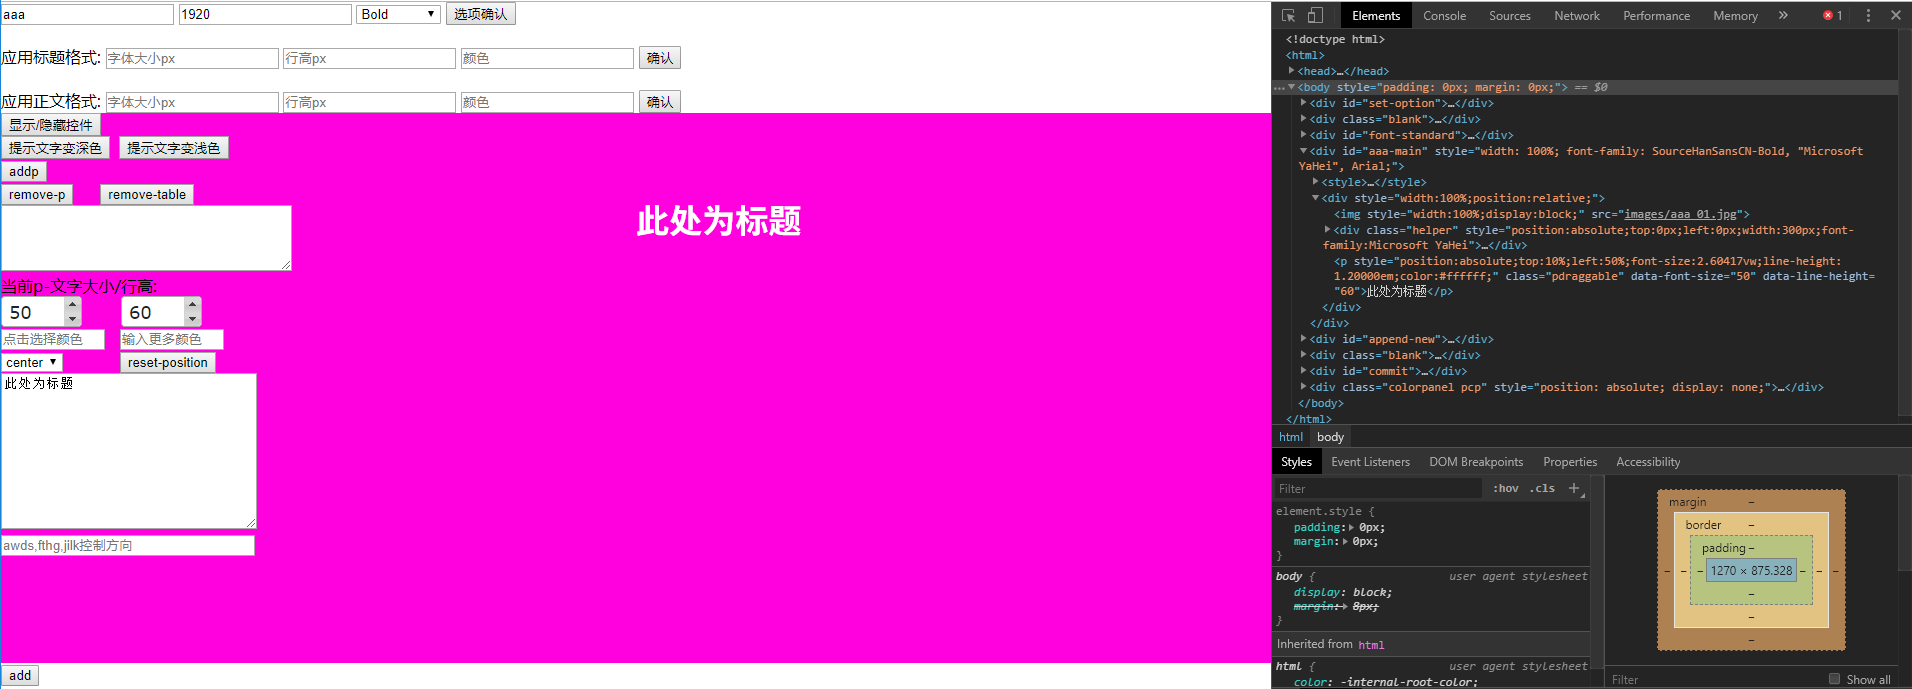
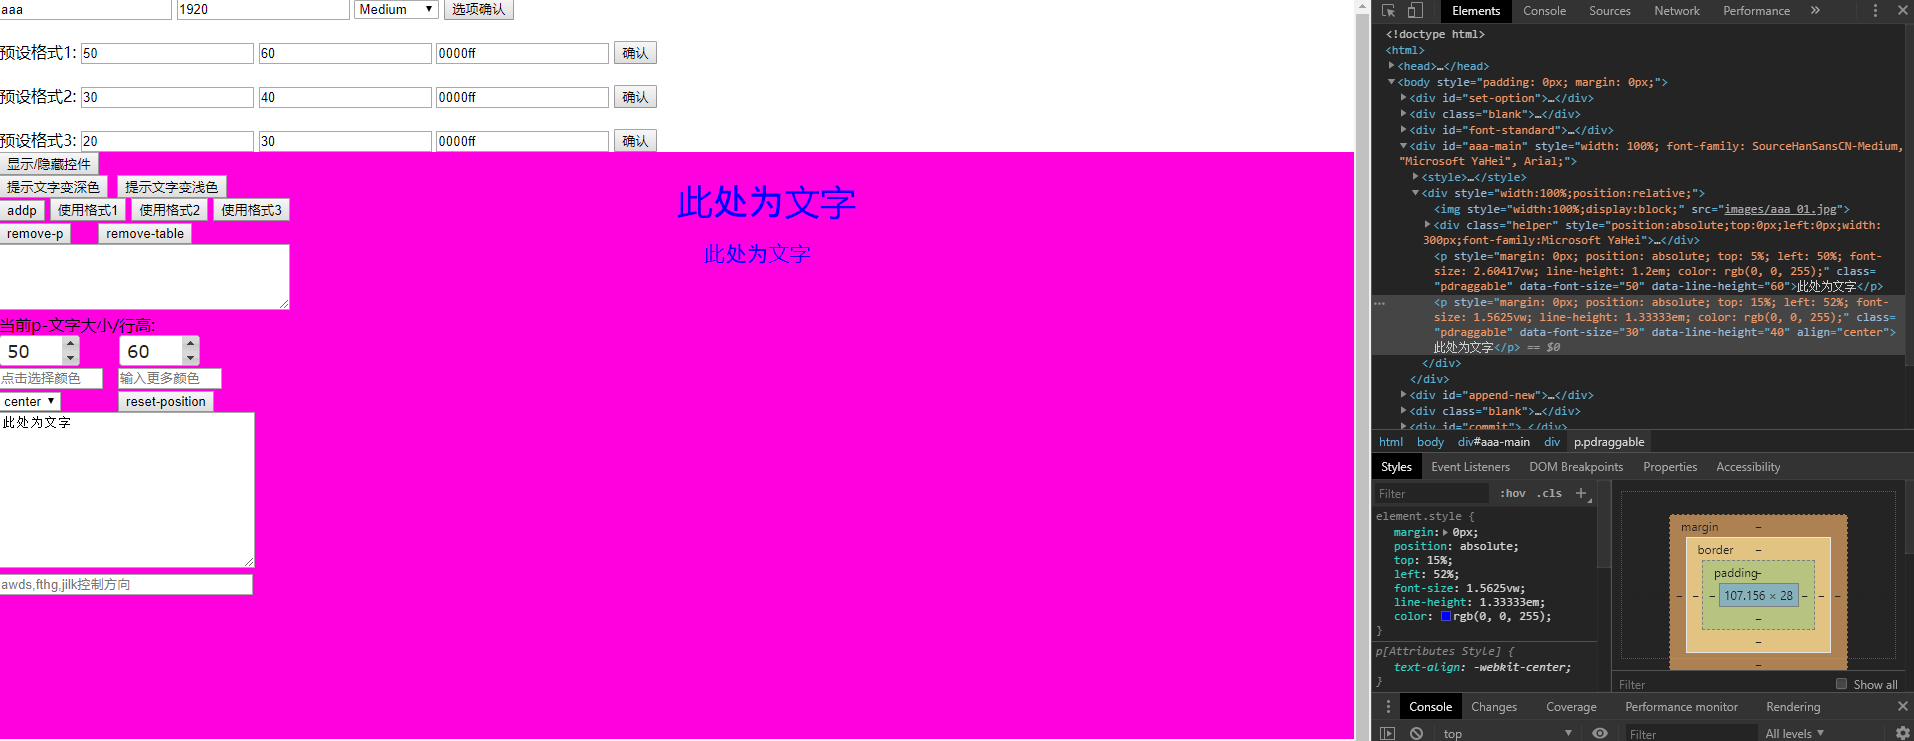
version7 optimize

diff --git a/version7/productHelper.html b/version7/productHelper.html
@@ -19,17 +19,24 @@
 	var fontFamilySubmit = "";//确认的字体
 	var alreadyCommit = 0;//确认选项
 
-	var titleStandard = {
-		fontSize: 50,
-		lineHeight: 60,
-		color: "0000ff"
-	};//标题标准
-	var contentStandard = {
-		fontSize: 24,
-		lineHeight: 34,
-		color: "0000ff"
-	};//正文标准
-
+	var standard = [
+		{
+			fontSize: 50,
+			lineHeight: 60,
+			color: "0000ff"
+		},
+		{
+			fontSize: 30,
+			lineHeight: 40,
+			color: "0000ff"
+		},
+		{
+			fontSize: 20,
+			lineHeight: 30,
+			color: "0000ff"
+		}
+	];//预设标准
+	var standardActive = 0;
 
 	var globalColor = new Array();//用于记录颜色
 
@@ -200,7 +207,10 @@
 					+ '<button class="hints-dark" style="margin-right: 9px;" onclick="$(this).parent().css(\'color\',\'#000000\')">提示文字变深色</button>'
 					+ '<button class="hints-light" onclick="$(this).parent().css(\'color\',\'#ffffff\')">提示文字变浅色</button>'
 					+ '<br/>'
-					+ '<button class="addp">addp</button>'
+					+ '<button style="margin-right: 5px;" class="addp">addp</button>'
+					+ '<button style="margin-right: 5px;" class="useStandard1">使用格式1</button>'
+					+ '<button style="margin-right: 5px;" class="useStandard2">使用格式2</button>'
+					+ '<button class="useStandard3">使用格式3</button>'
 					+ '<br/>'
 					+ '<button class="remove-p" style="margin-right: 27px;">remove-p</button>'
 					+ '<button class="remove-table">remove-table</button>'
@@ -214,6 +224,7 @@
 	var addControllerEvent = function () {
 		$(".helper .table-helper").children().unbind();
 		addP();
+		useStandard();
 		removeP();
 		removeTable();
 		initialGlobalColor();
@@ -226,16 +237,9 @@
 				console.log("index:" + index);
 				console.log("add <p>");
 				var pLength = $("#" + productNameSubmit + "-main").children("div").eq(index).children('p').length;
-				if(pLength == 0){
-					$("#" + productNameSubmit + "-main").children("div").eq(index).append(
-						`<p style="position:absolute;top:10%;left:50%;font-size:${(titleStandard.fontSize/(UIWidthSubmit/100)).toFixed(5)}vw;line-height:${(titleStandard.lineHeight/titleStandard.fontSize).toFixed(5)}em;color:#${titleStandard.color};" class="pdraggable" data-font-size="${titleStandard.fontSize}" data-line-height="${titleStandard.lineHeight}">此处为标题</p>`
-					);
-				}
-				else{
-					$("#" + productNameSubmit + "-main").children("div").eq(index).append(
-						`<p style="position:absolute;top:10%;left:50%;font-size:${(contentStandard.fontSize/(UIWidthSubmit/100)).toFixed(5)}vw;line-height:${(contentStandard.lineHeight/contentStandard.fontSize).toFixed(5)}em;color:#${contentStandard.color};" class="pdraggable" data-font-size="${titleStandard.fontSize}" data-line-height="${titleStandard.lineHeight}">此处为正文</p>`
-					);
-				}
+				$("#" + productNameSubmit + "-main").children("div").eq(index).append(
+					`<p style="margin:0;position:absolute;top:10%;left:50%;font-size:${(standard[standardActive].fontSize/(UIWidthSubmit/100)).toFixed(5)}vw;line-height:${(standard[standardActive].lineHeight/standard[standardActive].fontSize).toFixed(5)}em;color:#${standard[standardActive].color};" class="pdraggable" data-font-size="${standard[standardActive].fontSize}" data-line-height="${standard[standardActive].lineHeight}">此处为文字</p>`
+				);
 				$(".p-helper").children().unbind().remove();
 				$(".p-helper").remove();
 				$(".pcp").remove();
@@ -246,8 +250,6 @@
 
 	//<p>帮助模块
 	var pHelper = function(){
-		var ptableNum = -1;
-		var pNum = -1;
 		$(".pdraggable").on("click",function(){
 			console.log("p click");
 			console.log($(this));
@@ -255,16 +257,9 @@
 			var ptableNumber = $("#" + productNameSubmit + "-main").children("div").index(ptable);
 			var pNumber = ptable.children("p").index($(this));
 			console.log('ptable:',ptable,'ptableNumber:'+ptableNumber,'pNumber:'+pNumber);
-			if(ptableNumber != ptableNum || pNumber != pNum)
-			{
-				console.log("not same");
-				removePHelper(ptableNum,pNum);
-				
-				ptableNum = ptableNumber;
-				pNum = pNumber;
-				
-				pModuleFunction(ptableNumber,pNumber);
-			}
+
+			removePHelper();
+			pModuleFunction(ptableNumber,pNumber);
 		});
 	}
 
@@ -280,15 +275,13 @@
 		pResetPosition(ptableNumber, pNumber);
 		pTextarea(ptableNumber, pNumber);
 		pDirection(ptableNumber, pNumber);
+		pDirectionFocus(ptableNumber, pNumber);
 	}
 
 	//去掉p控件
-	var removePHelper = function (ptableNum, pNum) {
-		if ($(".p-helper" + ptableNum + "-" + pNum) != null) {
-			console.log("removePHelper");
-			$(".p-helper" + ptableNum + "-" + pNum).children().unbind().remove();
-			$(".p-helper" + ptableNum + "-" + pNum).remove();
-		}
+	var removePHelper = function () {
+		$(".p-helper").children().unbind().remove();
+		$(".p-helper").remove();
 		$(".pcp").remove();
 	}
 
@@ -319,18 +312,10 @@
 
 	//设置p控制界面
 	var setPControllerFace = function (ptableNumber, pNumber) {
-		if(pNumber == 0){
-			$(".p-helper" + ptableNumber + "-" + pNumber).find(".p-font-size-spinner").spinner();
-			$(".p-helper" + ptableNumber + "-" + pNumber).find(".p-font-size-spinner").spinner("value", titleStandard.fontSize);
-			$(".p-helper" + ptableNumber + "-" + pNumber).find(".p-line-height-spinner").spinner();
-			$(".p-helper" + ptableNumber + "-" + pNumber).find(".p-line-height-spinner").spinner("value", titleStandard.lineHeight);
-		}
-		else{
-			$(".p-helper" + ptableNumber + "-" + pNumber).find(".p-font-size-spinner").spinner();
-			$(".p-helper" + ptableNumber + "-" + pNumber).find(".p-font-size-spinner").spinner("value", contentStandard.fontSize);
-			$(".p-helper" + ptableNumber + "-" + pNumber).find(".p-line-height-spinner").spinner();
-			$(".p-helper" + ptableNumber + "-" + pNumber).find(".p-line-height-spinner").spinner("value", contentStandard.lineHeight);
-		}
+		$(".p-helper" + ptableNumber + "-" + pNumber).find(".p-font-size-spinner").spinner();
+		$(".p-helper" + ptableNumber + "-" + pNumber).find(".p-font-size-spinner").spinner("value", $("#" + productNameSubmit + "-main").children("div").eq(ptableNumber).children("p").eq(pNumber).data("font-size"));
+		$(".p-helper" + ptableNumber + "-" + pNumber).find(".p-line-height-spinner").spinner();
+		$(".p-helper" + ptableNumber + "-" + pNumber).find(".p-line-height-spinner").spinner("value", $("#" + productNameSubmit + "-main").children("div").eq(ptableNumber).children("p").eq(pNumber).data("line-height"));
 		$(".p-helper" + ptableNumber + "-" + pNumber).find(".p-textarea").html($("#" + productNameSubmit + "-main").children("div").eq(ptableNumber).children("p").eq(pNumber).html());
 		$(".p-helper" + ptableNumber + "-" + pNumber).find(".p-font-size-spinner").css("width", "50px");
 		$(".p-helper" + ptableNumber + "-" + pNumber).find(".p-line-height-spinner").css("width", "50px");
@@ -345,6 +330,7 @@
 			spin: function (event, ui) {
 				console.log("spinner-font-size:" + ui.value + " ptableNumber:" + ptableNumber + " pNumber:" + pNumber);
 				$("#" + productNameSubmit + "-main").children("div").eq(ptableNumber).children("p").eq(pNumber).data("font-size", ui.value);
+				$("#" + productNameSubmit + "-main").children("div").eq(ptableNumber).children("p").eq(pNumber).attr("data-font-size", ui.value);
 				$("#" + productNameSubmit + "-main").children("div").eq(ptableNumber).children("p").eq(pNumber).css("font-size", (ui.value/(UIWidthSubmit/100)).toFixed(5) + "vw");
 				var lineHeight = $("#" + productNameSubmit + "-main").children("div").eq(ptableNumber).children("p").eq(pNumber).data("line-height");
 				$("#" + productNameSubmit + "-main").children("div").eq(ptableNumber).children("p").eq(pNumber).css("line-height", (lineHeight/ui.value).toFixed(5) + "em");
@@ -364,9 +350,10 @@
 				value = 10;
 			}
 			$("#" + productNameSubmit + "-main").children("div").eq(ptableNumber).children("p").eq(pNumber).data("font-size", value);
+			$("#" + productNameSubmit + "-main").children("div").eq(ptableNumber).children("p").eq(pNumber).attr("data-font-size", value);
 			$("#" + productNameSubmit + "-main").children("div").eq(ptableNumber).children("p").eq(pNumber).css("font-size", (value/(UIWidthSubmit/100)).toFixed(5) + "vw");
 			var lineHeight = $("#" + productNameSubmit + "-main").children("div").eq(ptableNumber).children("p").eq(pNumber).data("line-height");
-				$("#" + productNameSubmit + "-main").children("div").eq(ptableNumber).children("p").eq(pNumber).css("line-height", (lineHeight/ui.value).toFixed(5) + "em");
+			$("#" + productNameSubmit + "-main").children("div").eq(ptableNumber).children("p").eq(pNumber).css("line-height", (lineHeight/ui.value).toFixed(5) + "em");
 		});
 	}
 
@@ -378,6 +365,7 @@
 			spin: function (event, ui) {
 				console.log("spinner-line-height:" + ui.value + " ptableNumber:" + ptableNumber + " pNumber:" + pNumber);
 				$("#" + productNameSubmit + "-main").children("div").eq(ptableNumber).children("p").eq(pNumber).data("line-height", ui.value);
+				$("#" + productNameSubmit + "-main").children("div").eq(ptableNumber).children("p").eq(pNumber).attr("data-line-height", ui.value);
 				var fontSize = $("#" + productNameSubmit + "-main").children("div").eq(ptableNumber).children("p").eq(pNumber).data("font-size");
 				$("#" + productNameSubmit + "-main").children("div").eq(ptableNumber).children("p").eq(pNumber).css("line-height", (ui.value/fontSize).toFixed(5) + "em");
 			}
@@ -396,8 +384,9 @@
 				value = 20;
 			}
 			$("#" + productNameSubmit + "-main").children("div").eq(ptableNumber).children("p").eq(pNumber).data("line-height", value);
-				var fontSize = $("#" + productNameSubmit + "-main").children("div").eq(ptableNumber).children("p").eq(pNumber).data("font-size");
-				$("#" + productNameSubmit + "-main").children("div").eq(ptableNumber).children("p").eq(pNumber).css("line-height", (value/fontSize).toFixed(5) + "em");
+			$("#" + productNameSubmit + "-main").children("div").eq(ptableNumber).children("p").eq(pNumber).attr("data-line-height", value);
+			var fontSize = $("#" + productNameSubmit + "-main").children("div").eq(ptableNumber).children("p").eq(pNumber).data("font-size");
+			$("#" + productNameSubmit + "-main").children("div").eq(ptableNumber).children("p").eq(pNumber).css("line-height", (value/fontSize).toFixed(5) + "em");
 		});
 	}
 
@@ -570,6 +559,37 @@
 		});
 	}
 
+	//p移动控件聚焦
+	var pDirectionFocus = function (ptableNumber, pNumber) {
+		$(".p-helper" + ptableNumber + "-" + pNumber).find(".p-direction").get(0).focus();
+		console.log('focus');
+	}
+
+	//使用标准按钮
+	var useStandard = function () {
+		$(".helper .useStandard1").each(function(index, element){
+			$(this).on("click",function(){
+				console.log("index:"+index);
+				console.log("useStandard1");
+				standardActive = 0;
+			});
+		});
+		$(".helper .useStandard2").each(function(index, element){
+			$(this).on("click",function(){
+				console.log("index:"+index);
+				console.log("useStandard2");
+				standardActive = 1;
+			});
+		});
+		$(".helper .useStandard3").each(function(index, element){
+			$(this).on("click",function(){
+				console.log("index:"+index);
+				console.log("useStandard3");
+				standardActive = 2;
+			});
+		});
+	}
+
 	//移除<p>
 	var removeP = function(){
 		$(".helper .remove-p").each(function(index, element){
@@ -628,40 +648,15 @@
 			}
 		});
 
-		//标题标准确认
-		$("#font-standard .title .submit").on("click", function () {
-			console.log("标题标准确认")
-			titleStandard.fontSize = isNaN(parseInt($("#font-standard .title .font-size").val())) ? 16 : parseInt($("#font-standard .title .font-size").val());
-			titleStandard.lineHeight = isNaN(parseInt($("#font-standard .title .line-height").val())) ? 26 : parseInt($("#font-standard .title .line-height").val());
-			titleStandard.color = $("#font-standard .title .color").val() == "" ? "ff0000" : $("#font-standard .title .color").val();
-			console.log(titleStandard)
-		});
-
-		//正文标准确认
-		$("#font-standard .content .submit").on("click", function () {
-			console.log("正文标准确认")
-			contentStandard.fontSize = isNaN(parseInt($("#font-standard .content .font-size").val())) ? 16 : parseInt($("#font-standard .content .font-size").val());
-			contentStandard.lineHeight = isNaN(parseInt($("#font-standard .content .line-height").val())) ? 26 : parseInt($("#font-standard .content .line-height").val());
-			contentStandard.color = $("#font-standard .content .color").val() == "" ? "ff0000" : $("#font-standard .content .color").val();
-			console.log(contentStandard)
-		});
-
-		//仅有正文格式确认
-		$("#font-standard .content .submit2").on("click", function () {
-			console.log("仅有正文格式确认")
-			contentStandard.fontSize = isNaN(parseInt($("#font-standard .content .font-size").val())) ? 16 : parseInt($("#font-standard .content .font-size").val());
-			contentStandard.lineHeight = isNaN(parseInt($("#font-standard .content .line-height").val())) ? 26 : parseInt($("#font-standard .content .line-height").val());
-			contentStandard.color = $("#font-standard .content .color").val() == "" ? "ff0000" : $("#font-standard .content .color").val();
-			titleStandard.fontSize = contentStandard.fontSize;
-			titleStandard.lineHeight = contentStandard.lineHeight;
-			titleStandard.color = contentStandard.color;
-			$("#font-standard .title .font-size").val(contentStandard.fontSize)
-			$("#font-standard .title .line-height").val(contentStandard.lineHeight)
-			$("#font-standard .title .color").val(contentStandard.color)
-			$("#font-standard .content .font-size").val(contentStandard.fontSize)
-			$("#font-standard .content .line-height").val(contentStandard.lineHeight)
-			$("#font-standard .content .color").val(contentStandard.color)
-			console.log(contentStandard)
+		//预设格式确认
+		$("#font-standard .standard .submit").on("click", function () {
+			console.log("预设格式确认")
+			var standardIndex = $("#font-standard .standard .submit").index($(this));
+			console.log("standardIndex",standardIndex)
+			standard[standardIndex].fontSize = parseInt($(this).parent('.standard').find('.font-size').val());
+			standard[standardIndex].lineHeight = parseInt($(this).parent('.standard').find('.line-height').val());
+			standard[standardIndex].color = $(this).parent('.standard').find('.color').val();
+			console.log(standard)
 		});
 
 		//“add”点击
@@ -708,21 +703,28 @@
 	</div>
 
 	<div id="font-standard">
-		<div class="title">
-			<span class="name">应用标题格式:</span>
-			<input class="font-size" type="text" placeholder="字体大小px" />
-			<input class="line-height" type="text" placeholder="行高px" />
-			<input class="color" type="text" placeholder="颜色" minlength="6" maxlength="6" />
+		<div class="standard">
+			<span class="name">预设格式1:</span>
+			<input class="font-size" type="number" step="1" placeholder="字体大小px" value="50" />
+			<input class="line-height" type="number" step="1" placeholder="行高px" value="60" />
+			<input class="color" type="text" placeholder="颜色" minlength="6" maxlength="6" value="0000ff" />
 			<button class="submit">确认</button>
 		</div>
 		<br>
-		<div class="content">
-			<span class="name">应用正文格式:</span>
-			<input class="font-size" type="text" placeholder="字体大小px" />
-			<input class="line-height" type="text" placeholder="行高px" />
-			<input class="color" type="text" placeholder="颜色" minlength="6" maxlength="6" />
+		<div class="standard">
+			<span class="name">预设格式2:</span>
+			<input class="font-size" type="number" step="1" placeholder="字体大小px" value="30" />
+			<input class="line-height" type="number" step="1" placeholder="行高px" value="40" />
+			<input class="color" type="text" placeholder="颜色" minlength="6" maxlength="6" value="0000ff" />
 			<button class="submit">确认</button>
-			<button class="submit2">仅有正文格式</button>
+		</div>
+		<br>
+		<div class="standard">
+			<span class="name">预设格式3:</span>
+			<input class="font-size" type="number" step="1" placeholder="字体大小px" value="20" />
+			<input class="line-height" type="number" step="1" placeholder="行高px" value="30" />
+			<input class="color" type="text" placeholder="颜色" minlength="6" maxlength="6" value="0000ff" />
+			<button class="submit">确认</button>
 		</div>
 	</div>
 

diff --git a/README.md b/README.md
@@ -7,7 +7,7 @@
 3. 点击"add"添加，按提示操作table
 4. 稍微拖动文字，产生文字控件，按提示操作文字
 5. 点击结束，生成专题，Chrome检查，复制html下代码
-6. 把代码放到如Dreamweaver等工具，进行格式化
+6. 把代码放到如vscode等工具，进行格式化
 
 ## version7版本使用说明
 1. psd切图，图片命名为产品型号，如aaa_xx.jpg，放在与页面同目录的images文件夹里
@@ -15,7 +15,7 @@
 3. 点击"add"添加，按提示操作版块
 4. 点击文字，产生文字控件，按提示操作文字，注意文字位置通过input键盘事件移动，awds，fthg，jilk，上下左右方向键
 5. 点击结束，生成专题，Chrome检查，复制html下代码
-6. 把代码放到如Dreamweaver等工具，进行格式化
+6. 把代码放到如vscode等工具，进行格式化
 
 ## 最新说明
 
@@ -222,9 +222,9 @@ version7是响应式版本，删除version6中的hr，margin，h3，取消鼠标
 		* validateData(productName, uiWidth, fontFamily)
 	4. 提交临时数据到全局数据
 		* submitValue(productName, uiWidth, fontFamily)
-	5. 如table已存在，则修改table样式，并清空参考线及其控制器
+	5. 如table已存在，则修改table样式，并清空其控制器
 		* modifyTable
-    6. 全局修改p字体大小/行高/颜色
+    6. 全局定义p样式：字体大小/行高/颜色
         * click事件
 
 * 阶段二
@@ -250,22 +250,21 @@ version7是响应式版本，删除version6中的hr，margin，h3，取消鼠标
 * 阶段三
 	1. “addp”点击，清除p控件内事件捆绑，添加帮助模块
 		* pHelper()
-	2. 点击获取数据内容，计算当前文字属于第几个div和div内第几个p,
-		* 若点击对象相同，
-			* 不作处理
-		* 若对象不同，清除旧帮助模块，产生新帮助模块
-            * removePHelper(ptableNum, pNum)
-            * addPControllerFace(ptableNumber,pNumber)
-            * setPControllerFace(ptableNumber,pNumber)
-            * //PFontSize(ptableNumber,pNumber)
-            * PFontSizeSpinner(ptableNumber,pNumber)
-            * //PLineHeight(ptableNumber,pNumber)
-            * PLineHeightSpinner(ptableNumber,pNumber)
-            * PColor(ptableNumber,pNumber)
-            * PColorMore(ptableNumber,pNumber)
-            * PAlign(ptableNumber,pNumber)
-            * PResetPosition(ptableNumber,pNumber)
-            * PTextarea(ptableNumber,pNumber)
+	2. 点击获取数据内容，计算当前文字属于第几个div和div内第几个p，清除旧帮助模块，产生新帮助模块
+		* removePHelper(ptableNum, pNum)
+		* addPControllerFace(ptableNumber,pNumber)
+		* setPControllerFace(ptableNumber,pNumber)
+		* PFontSize(ptableNumber,pNumber)
+		* PFontSizeSpinner(ptableNumber,pNumber)
+		* PLineHeight(ptableNumber,pNumber)
+		* PLineHeightSpinner(ptableNumber,pNumber)
+		* PColor(ptableNumber,pNumber)
+		* PColorMore(ptableNumber,pNumber)
+		* PAlign(ptableNumber,pNumber)
+		* PResetPosition(ptableNumber,pNumber)
+		* PTextarea(ptableNumber,pNumber)
+		* pDirection(ptableNumber,pNumber)
+		* pDirectionFocus(ptableNumber,pNumber)
 
 * 阶段四
 	1. “end”点击，清除文字拖动事件
